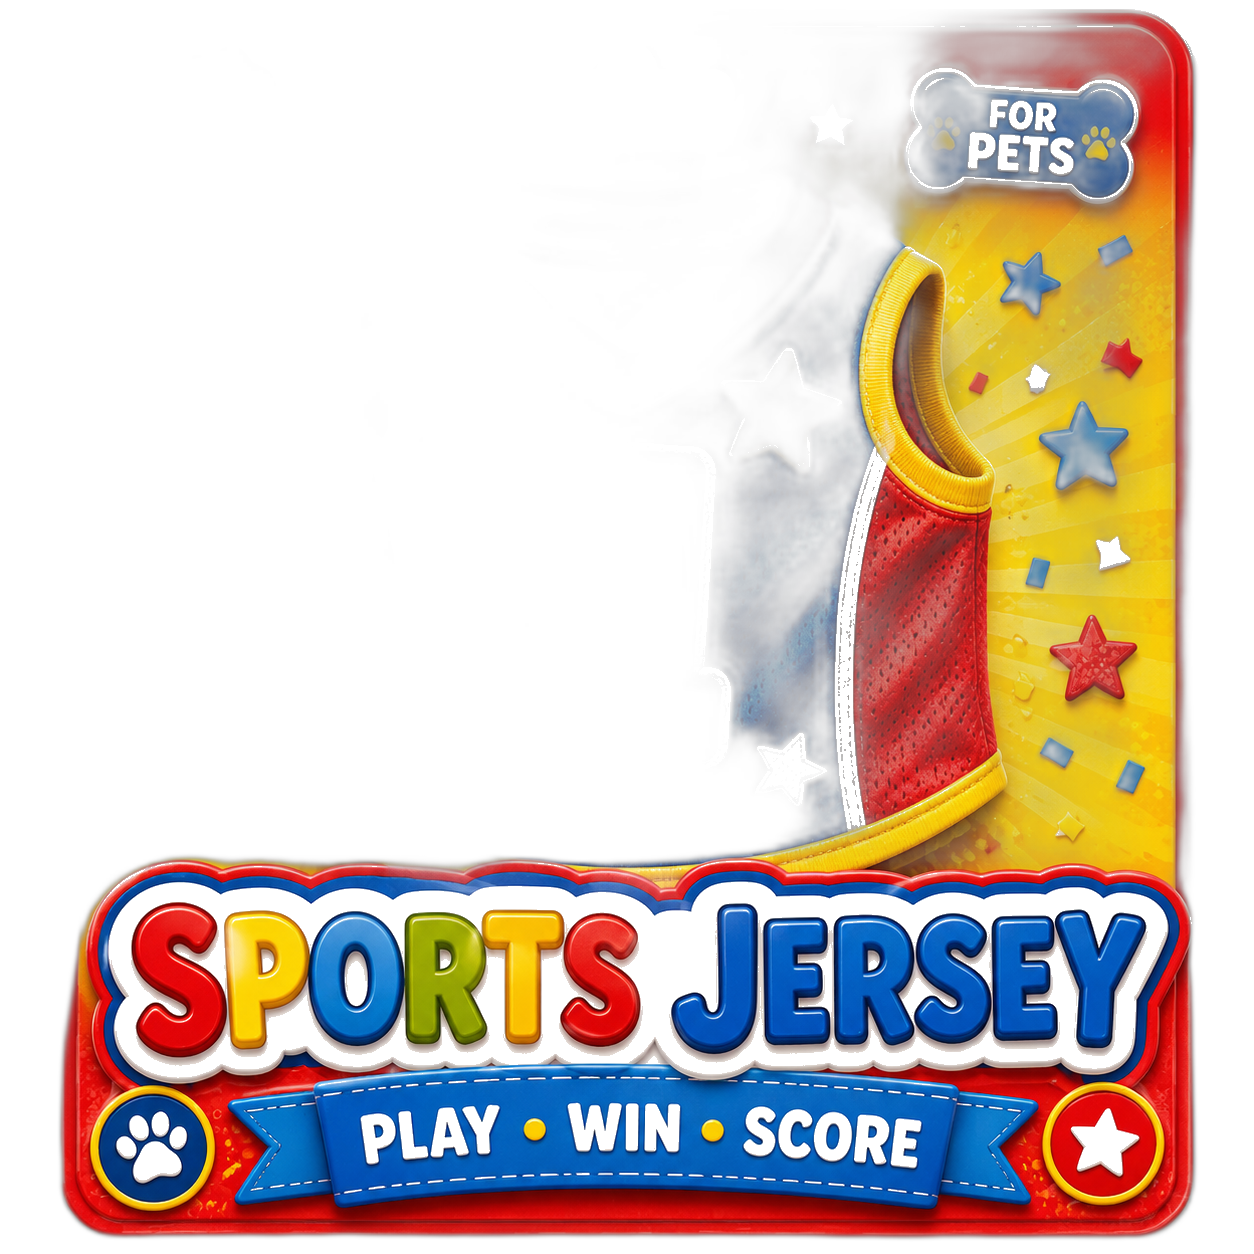
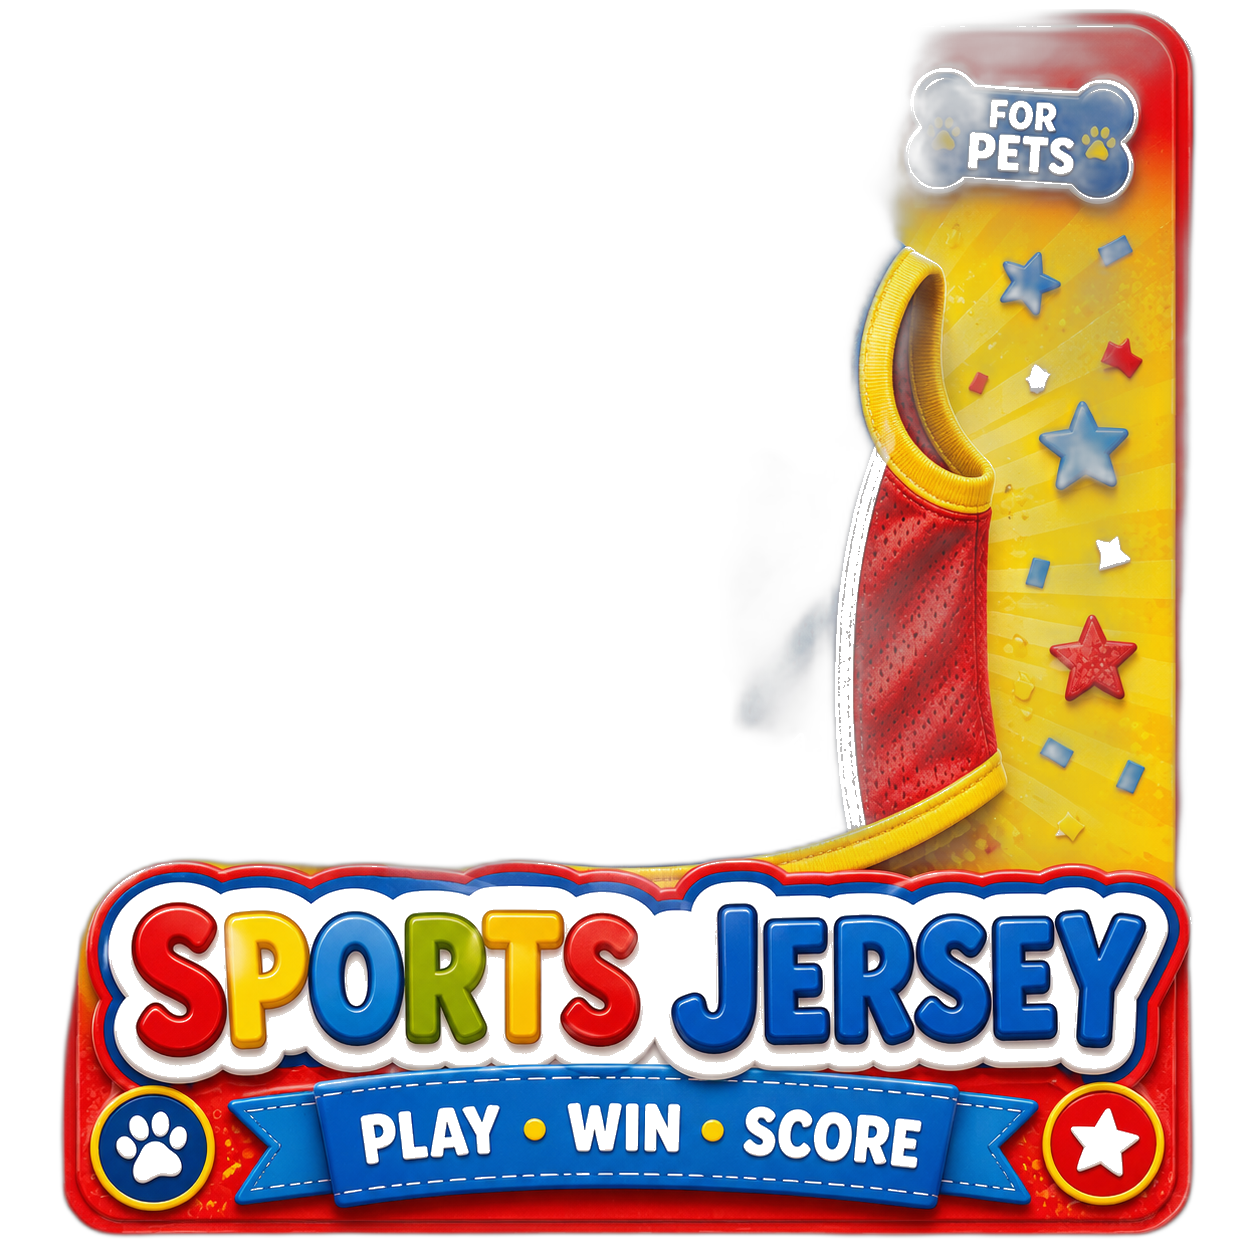
Remove accessory image backgrounds + bubble wand particle effect

diff --git a/store.html b/store.html
@@ -989,6 +989,39 @@
             });
           }
 
+          // Bubble wand tap: spawn rising bubbles
+          if (layer === 'acc' && item.id === 'bubble-wand') {
+            var _bubbleMoved = false;
+            sticker.addEventListener('mousedown', function() { _bubbleMoved = false; }, true);
+            sticker.addEventListener('mousemove', function() { _bubbleMoved = true; }, true);
+            sticker.addEventListener('touchstart', function() { _bubbleMoved = false; }, { passive:true, capture:true });
+            sticker.addEventListener('touchmove', function() { _bubbleMoved = true; }, { passive:true, capture:true });
+            sticker.addEventListener('click', function(e) {
+              if (_bubbleMoved) return;
+              var rect = sticker.getBoundingClientRect();
+              var scRect = scene.getBoundingClientRect();
+              var cx = rect.left - scRect.left + rect.width / 2;
+              var cy = rect.top  - scRect.top  + rect.height / 2;
+              var BUBBLES = ['🫧','🫧','🫧','⭕','🔵','🟣','🟤'];
+              for (var b = 0; b < 8; b++) {
+                var el = document.createElement('span');
+                el.className = 'food-particle';
+                el.style.fontSize = (0.9 + Math.random() * 0.9) + 'rem';
+                var spread = (Math.random() - 0.5) * 80;
+                var rise = 60 + Math.random() * 80;
+                el.style.left = (cx - 10 + spread * 0.3) + 'px';
+                el.style.top  = (cy - 10) + 'px';
+                el.style.setProperty('--fx', spread + 'px');
+                el.style.setProperty('--fy', '-' + rise + 'px');
+                el.style.animationDuration = (1.2 + Math.random() * 0.8) + 's';
+                el.style.animationDelay = (b * 0.09) + 's';
+                el.textContent = BUBBLES[Math.floor(Math.random() * BUBBLES.length)];
+                scene.appendChild(el);
+                setTimeout(function(e){ if (e.parentNode) e.parentNode.removeChild(e); }, 2200, el);
+              }
+            });
+          }
+
           scene.appendChild(sticker);
         });
 
